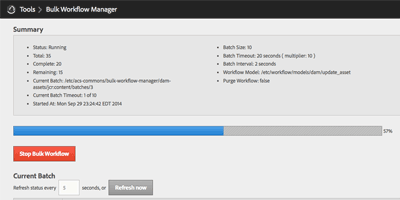
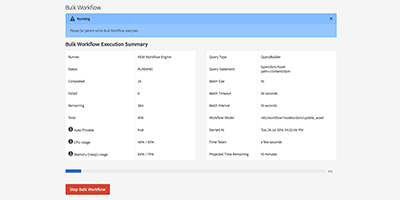
BWM v2 image updates

diff --git a/_posts/acs-aem-commons/features/2016-07-24-bulk-workflow-manager.md b/_posts/acs-aem-commons/features/2016-07-24-bulk-workflow-manager.md
@@ -16,7 +16,14 @@ initial-release: 2.6.2/3.2.2
 
 Execute Workflow in bulk across a variety of resources is difficult in AEM. OOTB Workflow initiation is on a per resource basis, via Workflow Packages or folders of limited size (15).
 
-The ACS AEM Commons Bulk Workflow Manager allows resources to be selected via a query (QueryBuilder, xPath, JCR-SQL, JCR-SQl2) or list, and put under managed Workflow execution ensuring only a fixed number of items are queued or under workflow at a time.
+The ACS AEM Commons Bulk Workflow Manager allows resources to be selected via a query
+
+* QueryBuilder
+* xPath
+* JCR-SQL
+* JCR-SQL
+
+or List of paths, and put under managed Workflow execution ensuring only a fixed number of items are queued or under workflow at a time.
 
 Bulk Workflow Manager supports executing OOTB AEM Workflow, Serial [Synthetic Workflow](/acs-aem-commons/features/synthetic-workflow.html) or [Synthetic Workflow](/acs-aem-commons/features/synthetic-workflow.html) via [Fast Action Manager](/acs-aem-commons/features/fast-action-manager.html).
 
@@ -37,7 +44,7 @@ Bulk Workflow Manager supports executing OOTB AEM Workflow, Serial [Synthetic Wo
 ![image](/acs-aem-commons/images/bulk-workflow-manager/step-5.png)
 * To start another Bulk Workflow run, create a new `Bulk Workflow Manager` page.
 
-## Runner Types
+## Runner Types (v2.6.2/3.2.2)
 
 ### AEM OOTB Workflow
 
